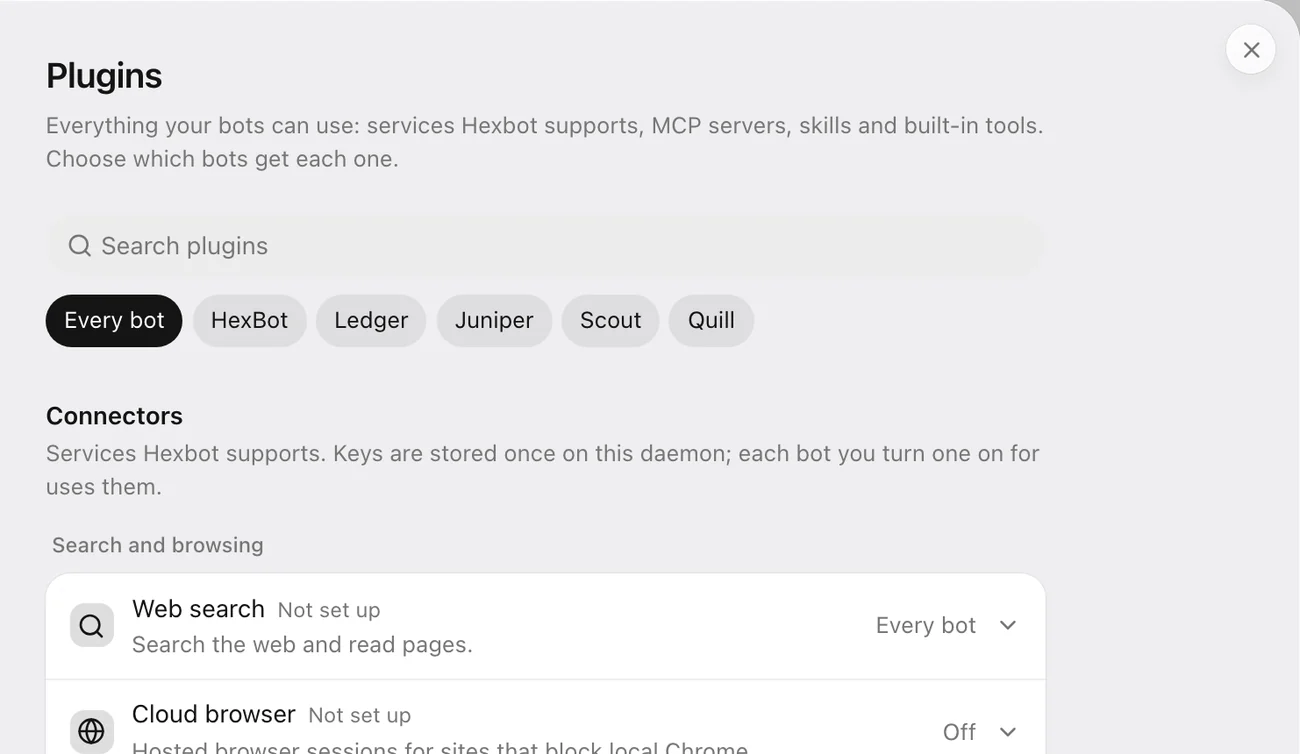
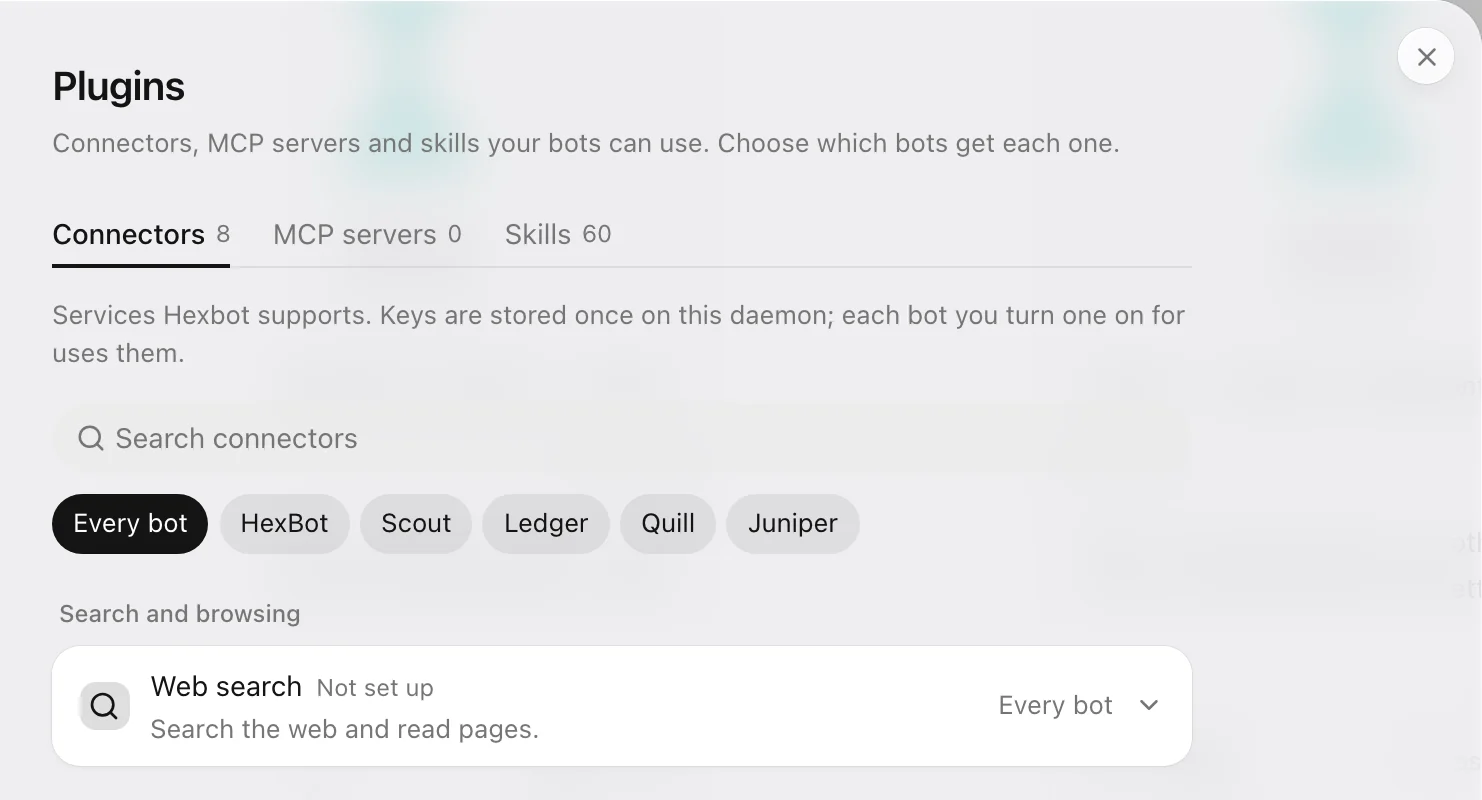
feat(site): Plugins and Tools screenshots show the current app
Main moved Plugins into three tabs and took Code execution and Browser
out of Bot settings, Tools. Both pictures are retaken from the merged
build with the ceramics studio data.

diff --git a/apps/site/src/content/blog/october-nightlies.md b/apps/site/src/content/blog/october-nightlies.md
@@ -70,7 +70,7 @@ Turn on **Sounds** in Settings, Appearance to hear a bot start, finish, or need 
 
 Everything a bot can use beyond its own tools now lives on one page: Settings, **Plugins**. That covers connectors such as web search and Notion, MCP servers, skills, and built-in tools that need a program, such as Computer use. Set a plugin up once, then choose which bots get it.
 
-![Settings, Plugins, with a row of bots to filter by and connectors such as web search.](/screens/plugins.webp)
+![Settings, Plugins, with tabs for Connectors, MCP servers and Skills, a row of bots to filter by, and connectors such as web search.](/screens/plugins.webp)
 
 A **plugin package** installs an MCP server together with the skills that explain how to use it. And when a bot needs a service it can't reach, it can find a server for it and ask to install it. You see exactly what it runs, every value it passes, and the skills it adds. Installing always asks, even in Bypass, and a plugin a bot installs is on for that bot only. See [Plugins](/docs/tools-and-skills/#plugins).
 
